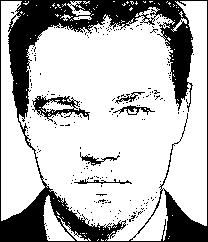
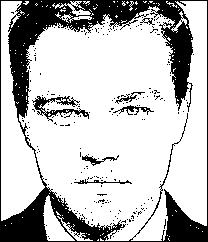
fixed one bug in merging blocks, still a few bugs

diff --git a/extract_blocks.py b/extract_blocks.py
@@ -144,7 +144,7 @@ def label_illustration(labeled_im):
     new_img = Image.fromarray(np.dstack((r_channel, g_channel, b_channel)).astype(np.uint8))
     new_img.save("labeled_image.jpg")
 
-# preprocess('data/Friends/Train/Joey/joey (16).jpg')
+# im = preprocess('data/Friends/Train/Joey/joey (44).jpg')
 im = preprocess('data/leonardo.jpg')
 labeled_im, cur_label = label(im)
 # label_illustration(labeled_im)
@@ -199,7 +199,7 @@ def find_blocks_within_radius(cur_block_idx, labeled_im, x_bar, y_bar, radius):
         max_x = int(np.ceil(x_bar + x_diff))
 
         for x in range(min_x + 1, max_x):
-            if x < labeled_im.shape[0] and y < labeled_im.shape[1] and labeled_im[x,y] != 0 and labeled_im[x,y] != cur_block_idx:
+            if x < labeled_im.shape[0] and y < labeled_im.shape[1] and labeled_im[x,y] != 0 and labeled_im[x,y] != cur_block_idx+1:
                 if labeled_im[x,y] not in blocks_within_radius:
                     blocks_within_radius.append(labeled_im[x,y])
     return blocks_within_radius
@@ -224,26 +224,35 @@ def grouping(labeled_im, cur_label, block_number_coords, x_bar, y_bar, x_coords_
         radius = 8 - ( 6 * ( (N - 1) / (N_max - 1) ) )
         count = 0
         for i in range(cur_label):
-            if i == 0: continue
             blocks_within_radius = []
             if block_number_coords[i] == N:
                 blocks_within_radius = find_blocks_within_radius(i, labeled_im, x_bar[i], y_bar[i], radius)
+            else:
+                continue
 
             if len(blocks_within_radius) > 0:
                 nearest_block = int(find_nearest_block(i, blocks_within_radius, x_bar, y_bar))
+            else:
+                continue
 
             #lies on same axis if any of the x coordinates are the same
-            lies_on_same_axis = bool(set(x_coords_all[nearest_block - 1]) & set(x_coords_all[i]))
+            # lies_on_same_axis = bool(set(x_coords_all[nearest_block - 1]) & set(x_coords_all[i]))
+            lies_on_same_axis = False
             if block_number_coords[nearest_block - 1] < N_max or lies_on_same_axis:
                 block_to_merge_with = max(i + 1, nearest_block)
                 block_to_merge = min(i + 1, nearest_block)
+
+                # print(str(i+1) + " " + str(nearest_block))
+                # print(str(block_to_merge_with) + " " + str(block_to_merge))
 
                 x_coords = x_coords_all[block_to_merge - 1]
                 y_coords = y_coords_all[block_to_merge - 1]
 
                 labeled_im[x_coords, y_coords] = block_to_merge_with
+                block_number_coords[block_to_merge_with-1] = block_number_coords[block_to_merge_with-1] + block_number_coords[block_to_merge-1]
 
     return labeled_im
 
 labeled_im = grouping(labeled_im, cur_label, block_number_coords, x_bar_all, y_bar_all, x_coords_all, y_coords_all)
 print(len(np.unique(labeled_im)))
+label_illustration(labeled_im)
